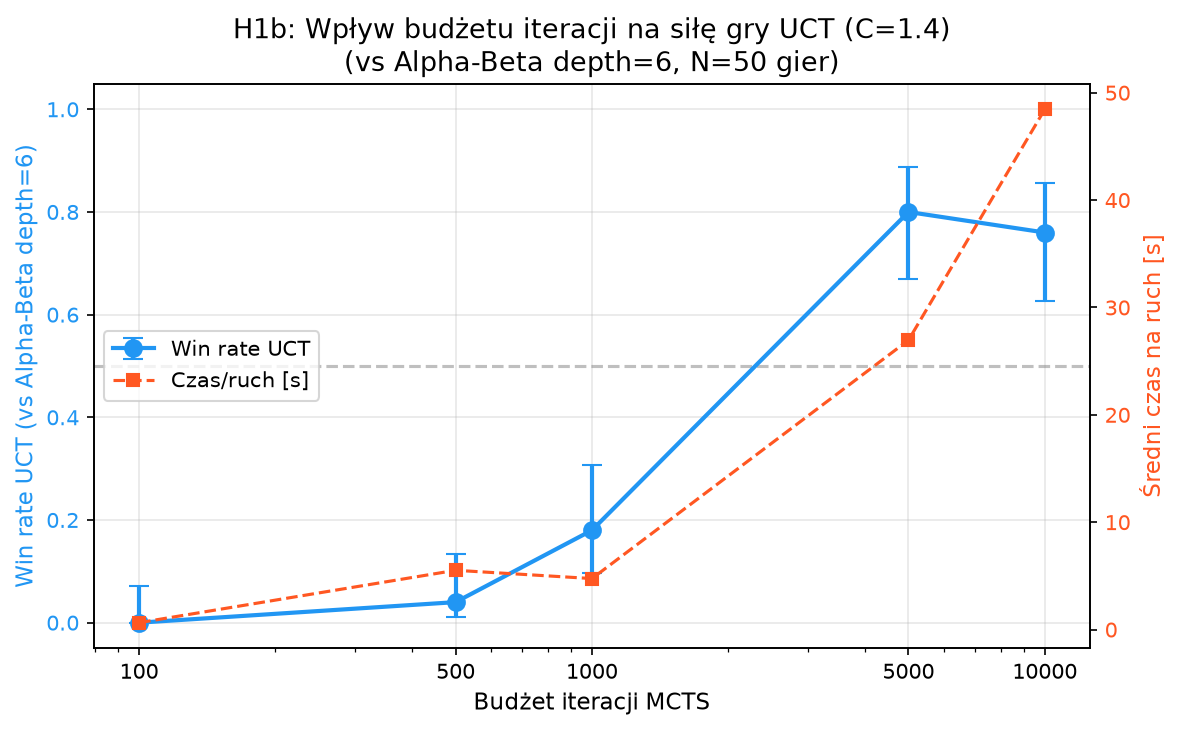
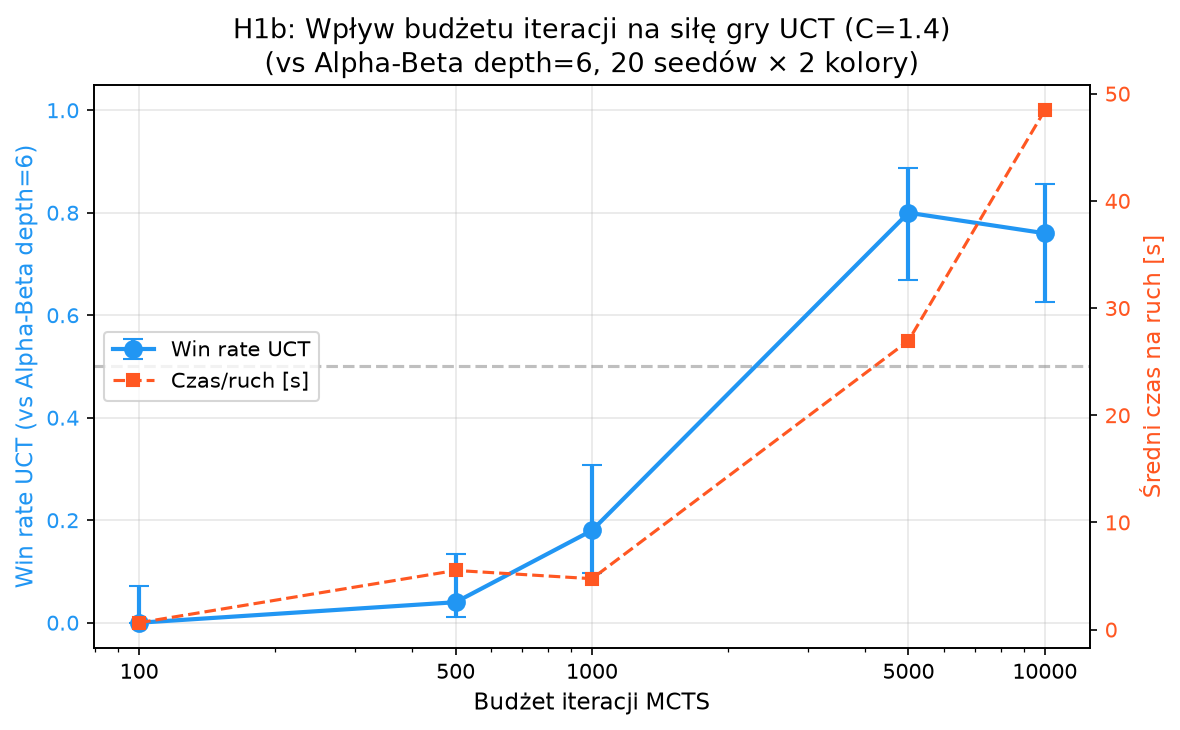
add fixes plot

diff --git a/raport/raport.tex b/raport/raport.tex
@@ -30,7 +30,7 @@
 
 % ===========================================================================
 \begin{abstract}
-W niniejszym raporcie przedstawiono badanie skuteczności algorytmu Monte Carlo Tree Search (MCTS) z~formułą Upper Confidence Bounds Applied to Trees (UCT) w~grze w~warcaby na planszy 8\texttimes8 z~damkami latającymi. Porównano cztery warianty graczy komputerowych: czysty UCT, UCT z~płytkim przeszukiwaniem minimax (hybryda wg Baier i~Winands, 2014), UCT z~wczesnym obcinaniem symulacji i~ewaluacją heurystyczną (Lorentz, 2016; Lanctot et~al., 2014) oraz gracz heurystyczny oparty o~alpha-beta z~ewaluacją inspirowaną programem Chinook. Zbadano wpływ stałej eksploracji~$C$, budżetu iteracji oraz limitu ruchów na skuteczność poszczególnych podejść. Eksperymenty przeprowadzono na 50~partiach dla każdej konfiguracji (18 konfiguracji, 900 partii łącznie) z~50 unikalnymi ziarnami generatora losowego i~naprzemienną zamianą kolorów, zapewniając pełną powtarzalność i~niezależność prób.
+W niniejszym raporcie przedstawiono badanie skuteczności algorytmu Monte Carlo Tree Search (MCTS) z~formułą Upper Confidence Bounds Applied to Trees (UCT) w~grze w~warcaby na planszy 8\texttimes8 z~damkami latającymi. Porównano cztery warianty graczy komputerowych: czysty UCT, UCT z~płytkim przeszukiwaniem minimax (hybryda wg Baier i~Winands, 2014), UCT z~wczesnym obcinaniem symulacji i~ewaluacją heurystyczną (Lorentz, 2016; Lanctot et~al., 2014) oraz gracz heurystyczny oparty o~alpha-beta z~ewaluacją inspirowaną programem Chinook. Zbadano wpływ stałej eksploracji~$C$, budżetu iteracji oraz limitu ruchów na skuteczność poszczególnych podejść. Eksperymenty przeprowadzono na 50~partiach dla każdej konfiguracji (18 konfiguracji, 900 partii łącznie) z~20 unikalnymi ziarnami generatora losowego i~naprzemienną zamianą kolorów, zapewniając powtarzalność wyników.
 
 Wyniki wskazują, że zwiększenie budżetu iteracji istotnie poprawia skuteczność UCT — przy 5000 iteracji UCT osiąga 80\% zwycięstw przeciwko alpha-beta (depth=6). Stała eksploracji $C$ ma ograniczony wpływ przy niskim budżecie (100 iteracji), natomiast wariant z~wczesnym obcinaniem (early termination) wykazuje wyraźną przewagę nad czystym UCT (60\% win rate przy 1000 iteracji). Hybryda minimax jest wolniejsza obliczeniowo i~przy wysokich budżetach traci na skuteczności z~powodu mniejszej liczby odwiedzonych węzłów. Skrócenie limitu ruchów ze 150 do 100 zwiększa odsetek remisów i~faworyzuje strategie oparte na wczesnej ewaluacji materiałowej.
 \end{abstract}
@@ -149,7 +149,7 @@ Eksperymenty zorganizowane w~macierz 18 konfiguracji (Tabela~\ref{tab:experiment
 \end{itemize}
 
 \subsubsection{Protokół eksperymentalny}
-Dla każdej konfiguracji rozegrano 50 partii z~pulą 50 unikalnych ziaren generatora losowego (seedów 0--49). Partie naprzemiennie zamieniają kolory (co druga gra gracz~A gra czarnymi), co daje 25 partii jako biały i~25 jako czarny dla każdego gracza. Dzięki determinizmowi implementacji (dany seed + przydział kolorów = identyczna partia) całość jest w~pełni reprodukowalna. Łącznie przeprowadzono $18 \times 50 = 900$ unikalnych partii.
+Dla każdej konfiguracji rozegrano 50 partii wykorzystując 20 unikalnych ziaren generatora losowego (seedy 0--19), cyklicznie powtarzanych do 50 gier. Partie naprzemiennie zamieniają kolory (co druga gra gracz~A gra czarnymi), co oznacza, że te same seedy występują w~różnych przydziałach kolorów. Przy determinizmie implementacji partia o~danym seedzie i~przydziale kolorów jest identyczna w~każdym powtórzeniu — stanowi to wbudowaną weryfikację spójności (sanity check). Efektywna liczba niezależnych partii na eksperyment to $20 \text{ seedów} \times 2 \text{ kolory} = 40$ unikalnych scenariuszy, a~pozostałe 10 gier to powtórzenia kontrolne. Łącznie przeprowadzono $18 \times 50 = 900$ partii, z~czego $18 \times 40 = 720$ to partie unikalne.
 
 \begin{table}[H]
 \centering

diff --git a/experiments/analysis.py b/experiments/analysis.py
@@ -134,7 +134,7 @@ def plot_c_sweep(df: pd.DataFrame, stats: pd.DataFrame, output_dir: Path) -> Non
     ax.axhline(0.5, color='gray', linestyle='--', alpha=0.5, label='50%')
     ax.set_xlabel('Stała eksploracji C')
     ax.set_ylabel('Win rate UCT')
-    ax.set_title('H1a: Wpływ stałej eksploracji C na siłę gry UCT\n(100 iteracji vs Alpha-Beta depth=6, N=50 gier)')
+    ax.set_title('H1a: Wpływ stałej eksploracji C na siłę gry UCT\n(100 iteracji vs Alpha-Beta depth=6, 20 seedów × 2 kolory)')
     ax.set_ylim(-0.05, 1.05)
     ax.set_xticks(c_values)
     ax.legend(loc='upper right')
@@ -198,7 +198,7 @@ def plot_budget_sweep(df: pd.DataFrame, stats: pd.DataFrame, output_dir: Path) -
     lines2, labels2 = ax2.get_legend_handles_labels()
     ax1.legend(lines1 + lines2, labels1 + labels2, loc='center left')
 
-    ax1.set_title('H1b: Wpływ budżetu iteracji na siłę gry UCT (C=1.4)\n(vs Alpha-Beta depth=6, N=50 gier)')
+    ax1.set_title('H1b: Wpływ budżetu iteracji na siłę gry UCT (C=1.4)\n(vs Alpha-Beta depth=6, 20 seedów × 2 kolory)')
     fig.tight_layout()
     fig.savefig(output_dir / 'h1b_budget_sweep.png')
     plt.close(fig)
@@ -241,7 +241,7 @@ def plot_variants_comparison(df: pd.DataFrame, stats: pd.DataFrame, output_dir: 
 
     ax.set_xlabel('Eksperyment')
     ax.set_ylabel('Proporcja wyników')
-    ax.set_title('H2 & H3: Porównanie wariantów UCT vs Basic UCT\n(N=50 gier na eksperyment)')
+    ax.set_title('H2 & H3: Porównanie wariantów UCT vs Basic UCT\n(20 seedów × 2 kolory na eksperyment)')
     ax.set_xticks(x)
     ax.set_xticklabels(labels)
     ax.legend(loc='upper right')
@@ -305,7 +305,7 @@ def plot_move_limit_comparison(df: pd.DataFrame, stats: pd.DataFrame, output_dir
 
     ax.set_xlabel('Konfiguracja (1000 iteracji, C=1.4)')
     ax.set_ylabel('Proporcja wyników')
-    ax.set_title('H4: Wpływ limitu ruchów i wariantu MCTS vs Alpha-Beta (depth=6)\n(N=50 gier)')
+    ax.set_title('H4: Wpływ limitu ruchów i wariantu MCTS vs Alpha-Beta (depth=6)\n(20 seedów × 2 kolory)')
     ax.set_xticks(x)
     ax.set_xticklabels(labels)
     ax.legend()
@@ -426,7 +426,7 @@ def plot_full_overview(df: pd.DataFrame, stats: pd.DataFrame, output_dir: Path) 
     ax.set_yticks(y)
     ax.set_yticklabels(exp_ids)
     ax.set_xlabel('Proporcja wyników')
-    ax.set_title('Przegląd wszystkich eksperymentów (N=50 gier każdy)')
+    ax.set_title('Przegląd wszystkich eksperymentów (20 seedów × 2 kolory każdy)')
     ax.axvline(0.5, color='black', linestyle=':', alpha=0.4)
     ax.set_xlim(0, 1)
     ax.legend(loc='lower right')

diff --git a/experiments/run_experiment.py b/experiments/run_experiment.py
@@ -186,7 +186,7 @@ def main():
     parser = argparse.ArgumentParser(description="Run checkers MCTS experiments")
     parser.add_argument("--output", type=str, default="results", help="Output directory for CSV files")
     parser.add_argument("--games", type=int, default=50, help="Number of games per experiment")
-    parser.add_argument("--seeds", type=int, default=50, help="Number of distinct seeds")
+    parser.add_argument("--seeds", type=int, default=20, help="Number of distinct seeds")
     parser.add_argument("--workers", type=int, default=None, help="Number of parallel processes (default: all CPU cores)")
     parser.add_argument("--quick", action="store_true", help="Quick mode: 4 games, subset of experiments")
     parser.add_argument("--experiments", type=str, nargs="*", help="Run only specific experiment IDs (e.g. E01 E02)")
